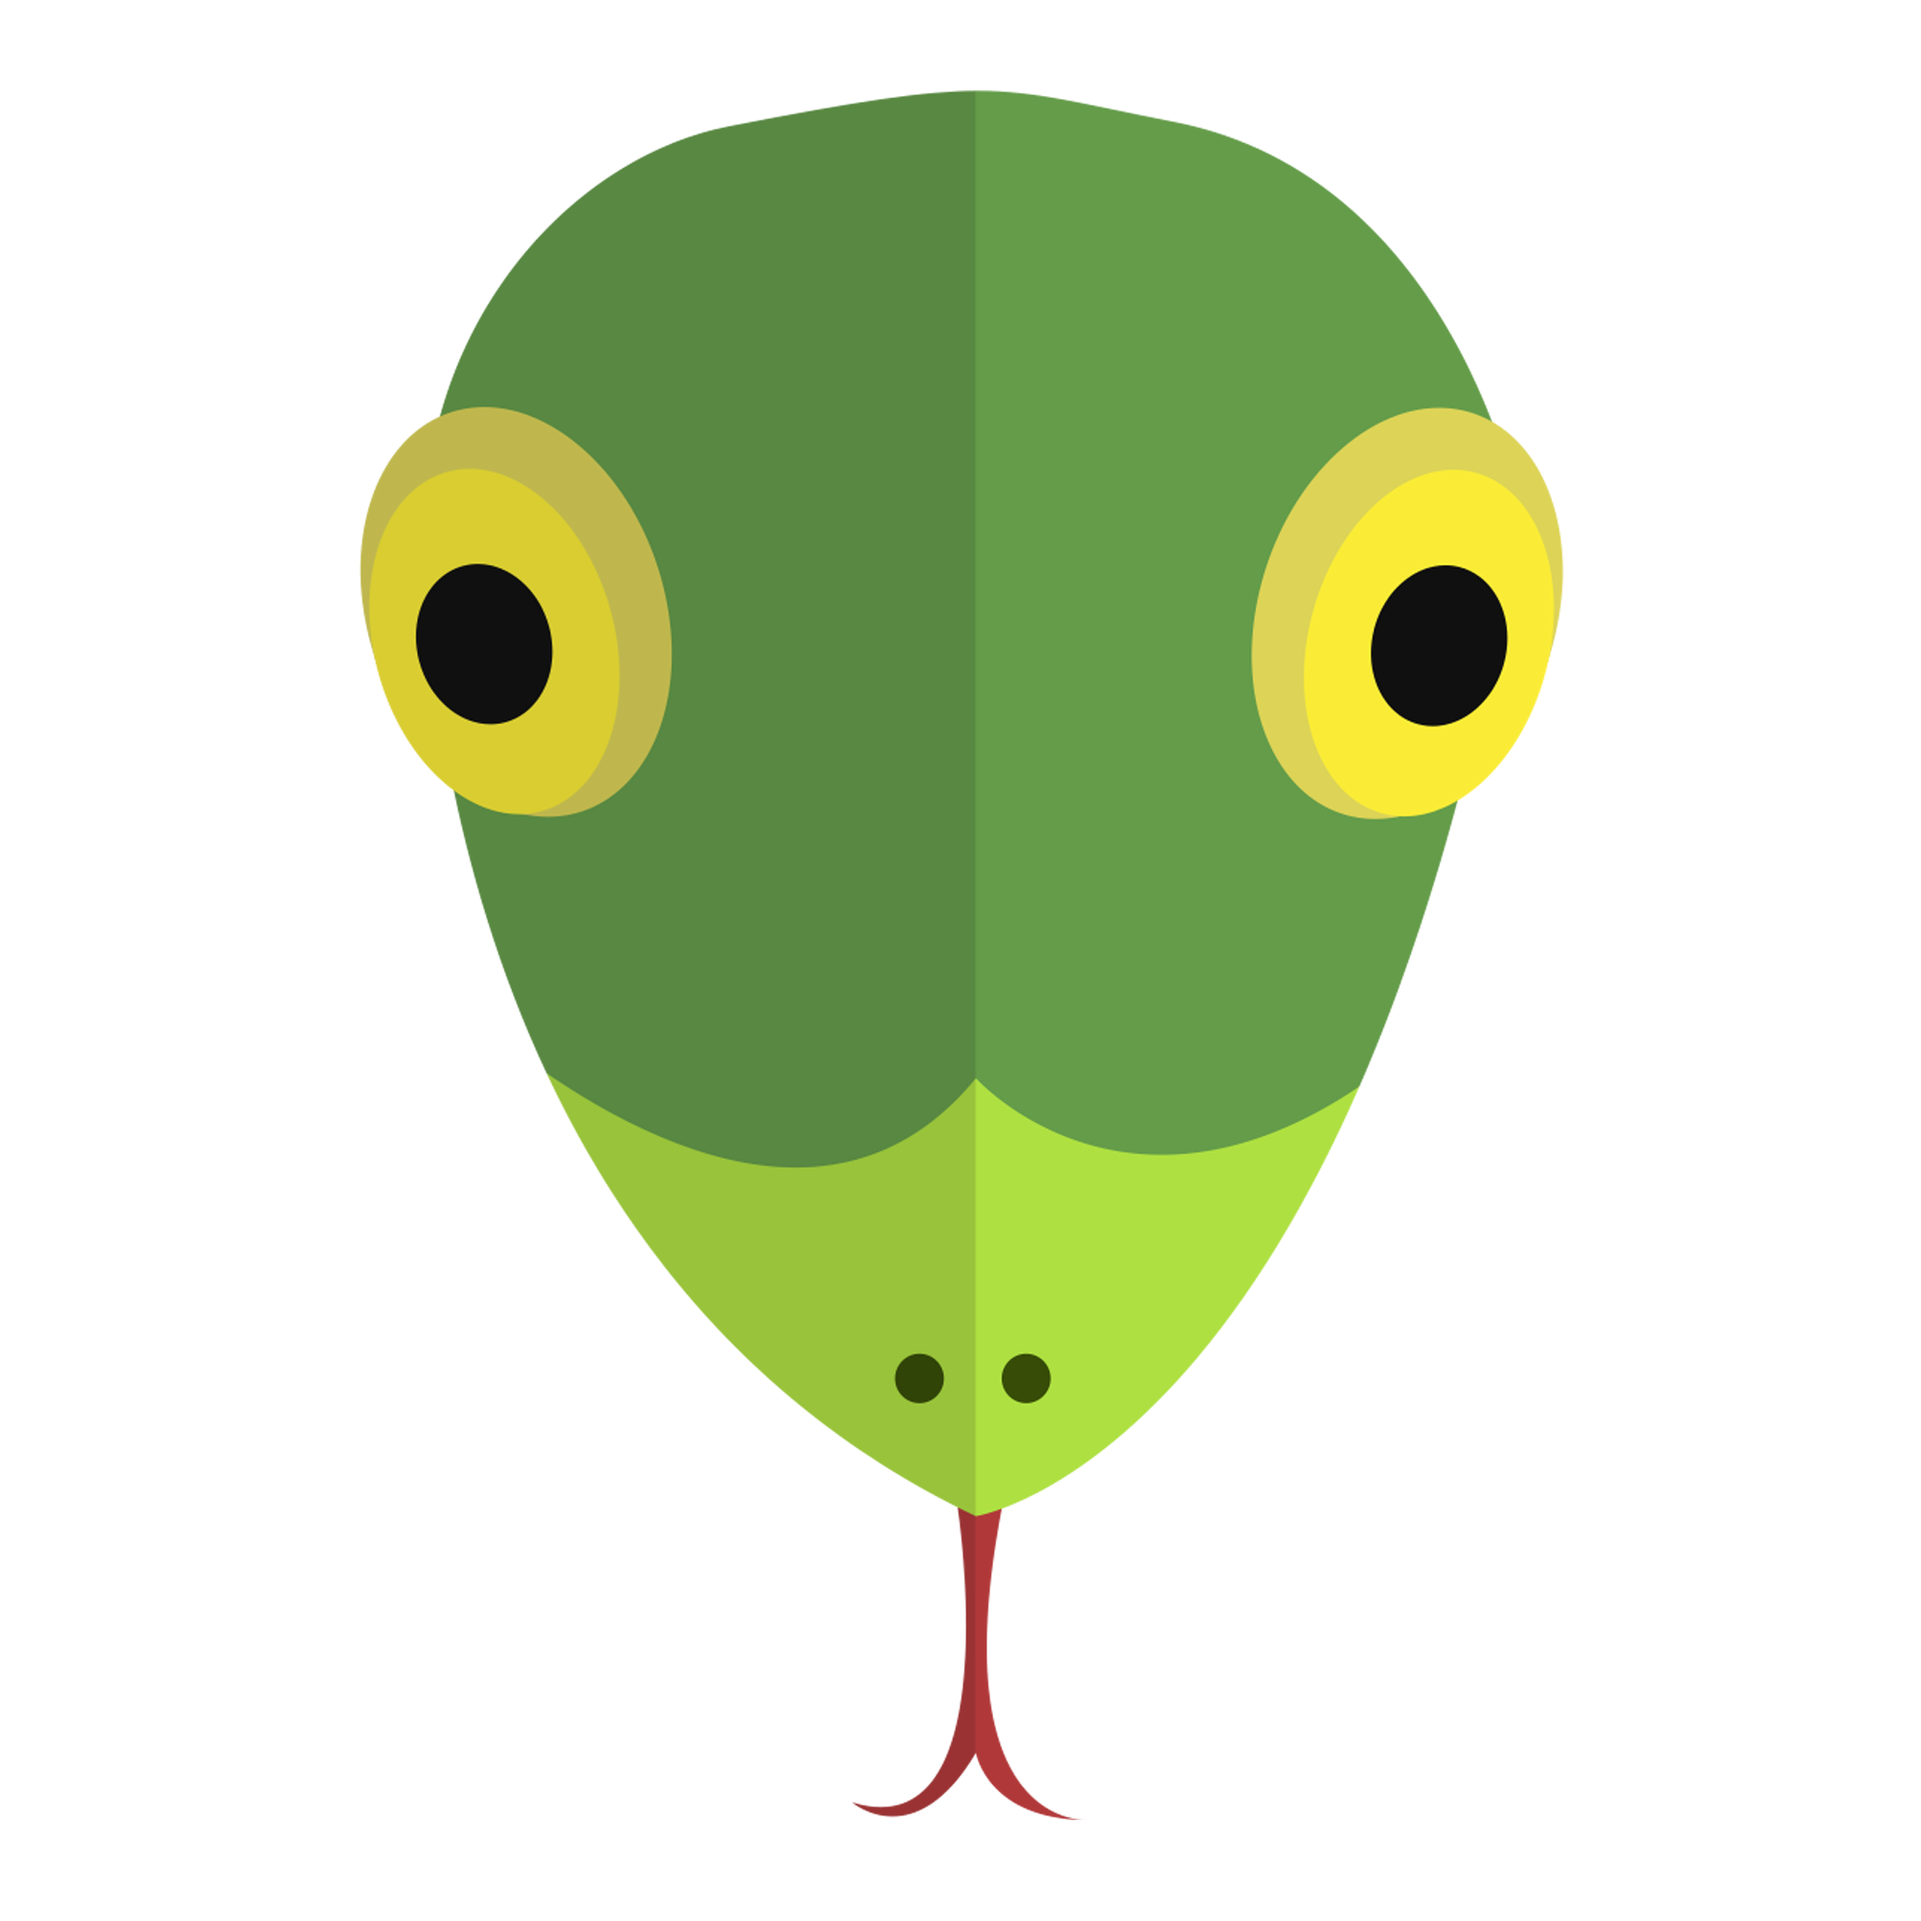
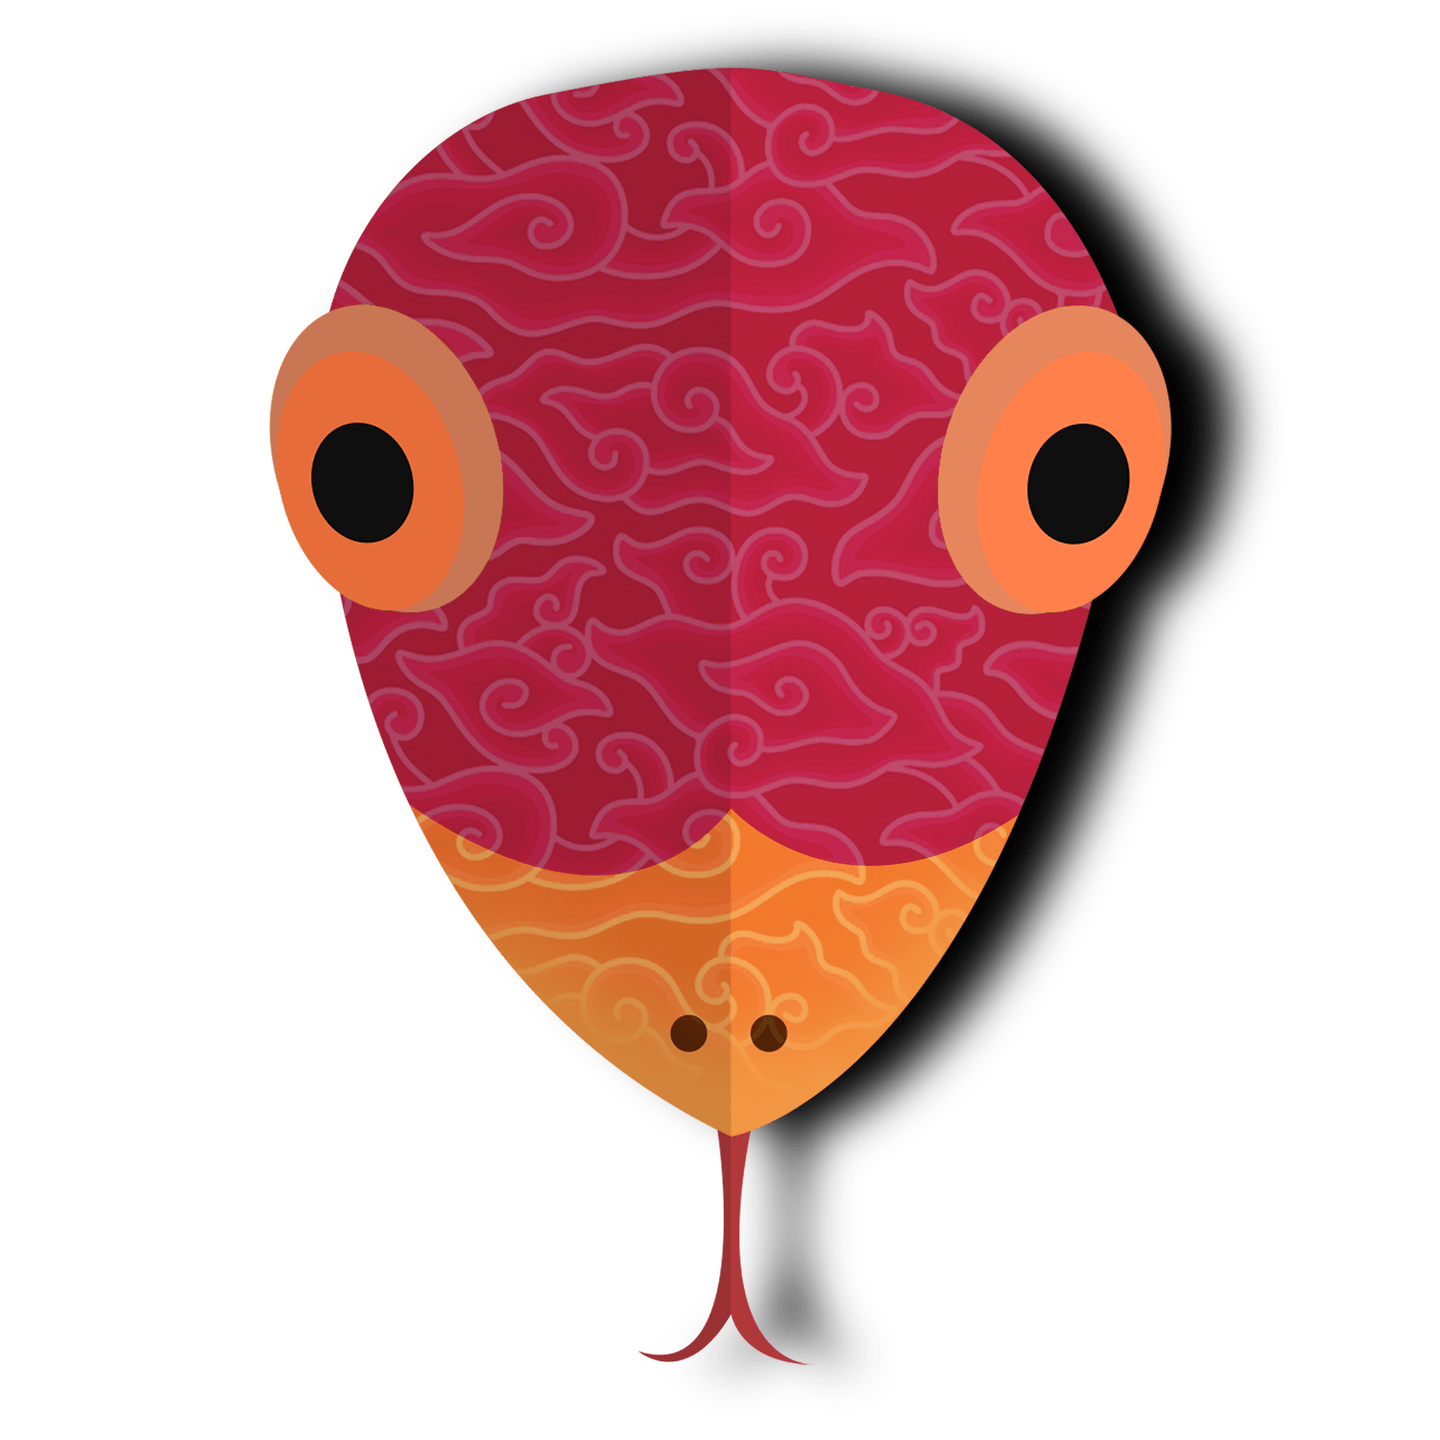
merubah menjadi gambar

diff --git a/script.js b/script.js
@@ -14,6 +14,8 @@ var MOVE_INTERVAL = 150;
 let level = 1;
 let life = 3;
 let score = 0;
+
+// gambar hati
 let gambarHati = new Image();
 gambarHati.src = "./Asset/hati.png";
 
@@ -44,7 +46,7 @@ function initSnake(color) {
         direction: initDirection(),
     }
 }
-let snake1 = initSnake("purple");
+let snake1 = initSnake();
 
 //tambah apple
 let apples = [{
@@ -123,10 +125,13 @@ function draw() {
 
         ctx.clearRect(0, 0, CANVAS_SIZE, CANVAS_SIZE);
         
-        drawCell(ctx, snake1.head.x, snake1.head.y, snake1.color);
+        // kepala
+        var imgKepala = document.getElementById("kepala");
+        drawImagePixel(ctx, snake1.head.x, snake1.head.y, imgKepala);
         //memanjangakan badan
         for (let i = 1; i < snake1.body.length; i++) {
-            drawCell(ctx, snake1.body[i].x, snake1.body[i].y, snake1.color);
+            var imgBadan = document.getElementById("body");
+            drawImagePixel(ctx, snake1.body[i].x, snake1.body[i].y, imgBadan);
         }
 
         //aplle

diff --git a/index.html b/index.html
@@ -8,7 +8,7 @@
         <!-- kepala -->
         <img id="kepala" style="display: none;" width="20" height="20" src="Asset/kepala.png" alt="kepala">
         <!-- body -->
-        <img id="body" style="display: none;" width="20" height="20" src="Asset/kepala.png" alt="body">
+        <img id="body" style="display: none;" width="20" height="20" src="Asset/badan.png" alt="body">
         <!-- heart -->
         <img id="heart" id="heart" style="display: none;" width="20" height="20" src="Asset/hati.png" alt="Heart">
         <div>
